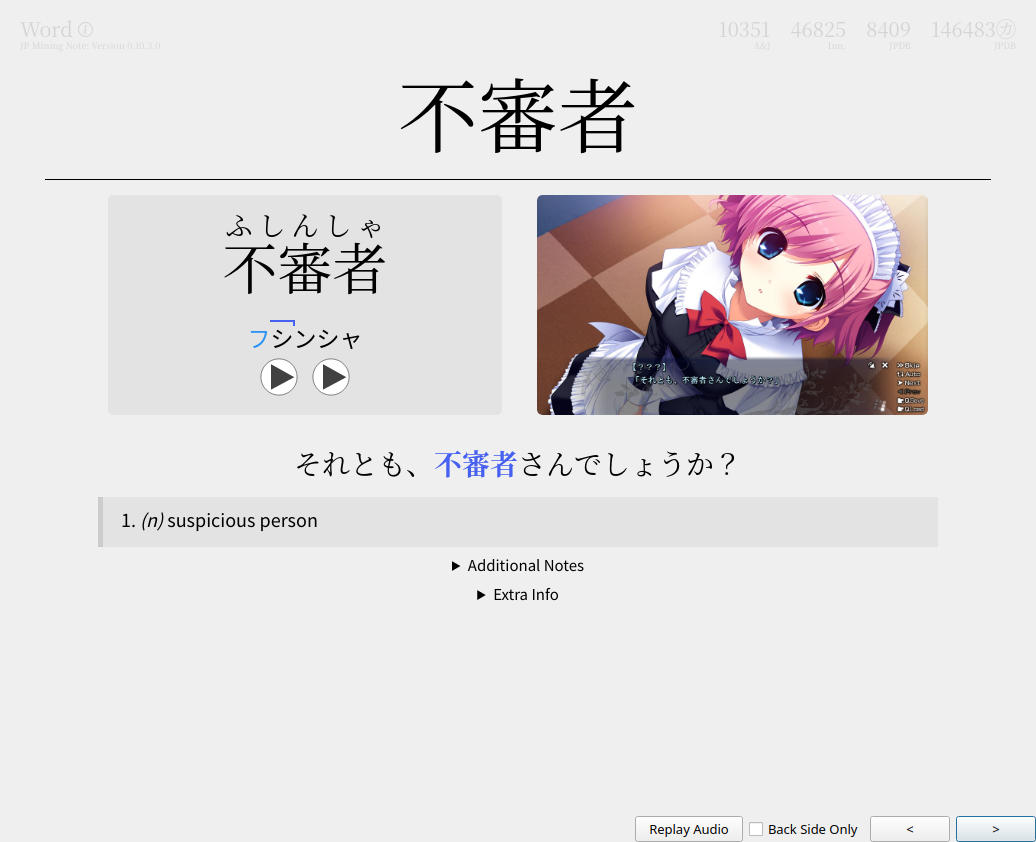
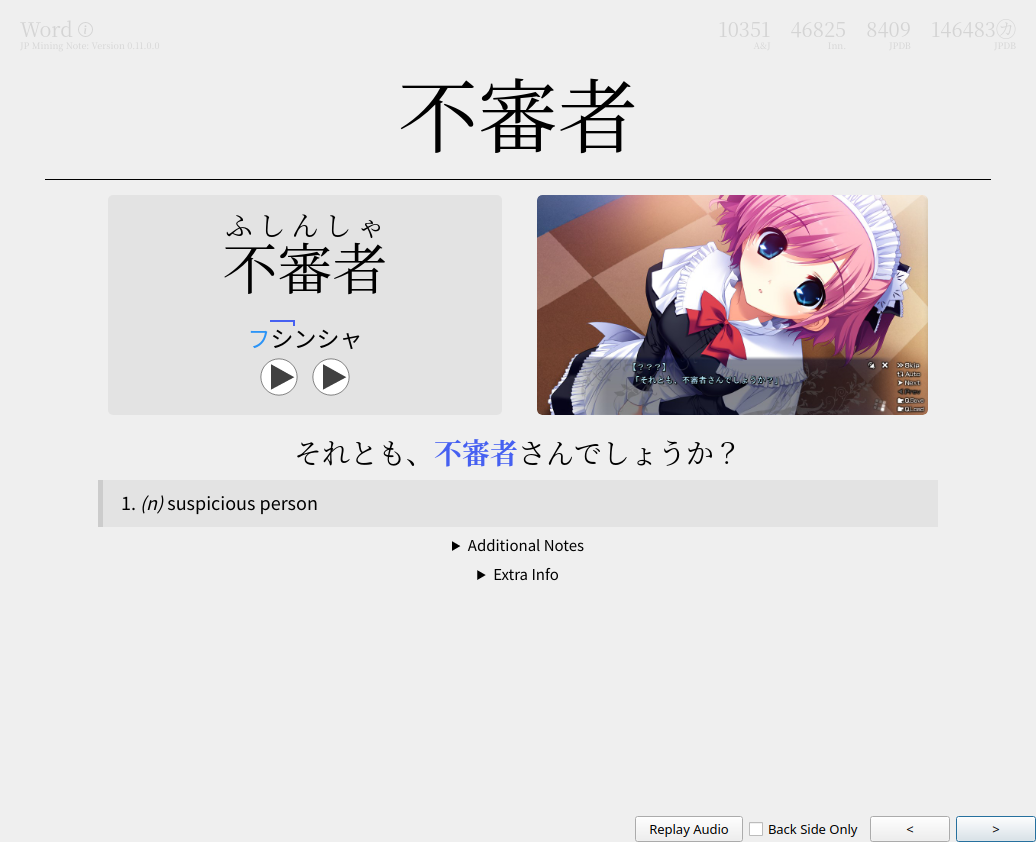
updated some documentation images, updated changelog to include date

Changed region(s): [[0.278, 0.5249, 0.7104, 0.5867], [0.0927, 0.5867, 0.3089, 0.6485], [0.4324, 0.6176, 0.556, 0.7102]]

diff --git a/CHANGELOG.md b/CHANGELOG.md
@@ -21,7 +21,7 @@ and must use `./install.py --update`.
 
 
 
-## [0.11.0.0] - 2022-11-??
+## [0.11.0.0] - 2022-11-19
 #### Breaking Changes
 - Added fields: `PAOverrideText`, `PrimaryDefinitionPicture`, `WordReadingHiragana`
 
